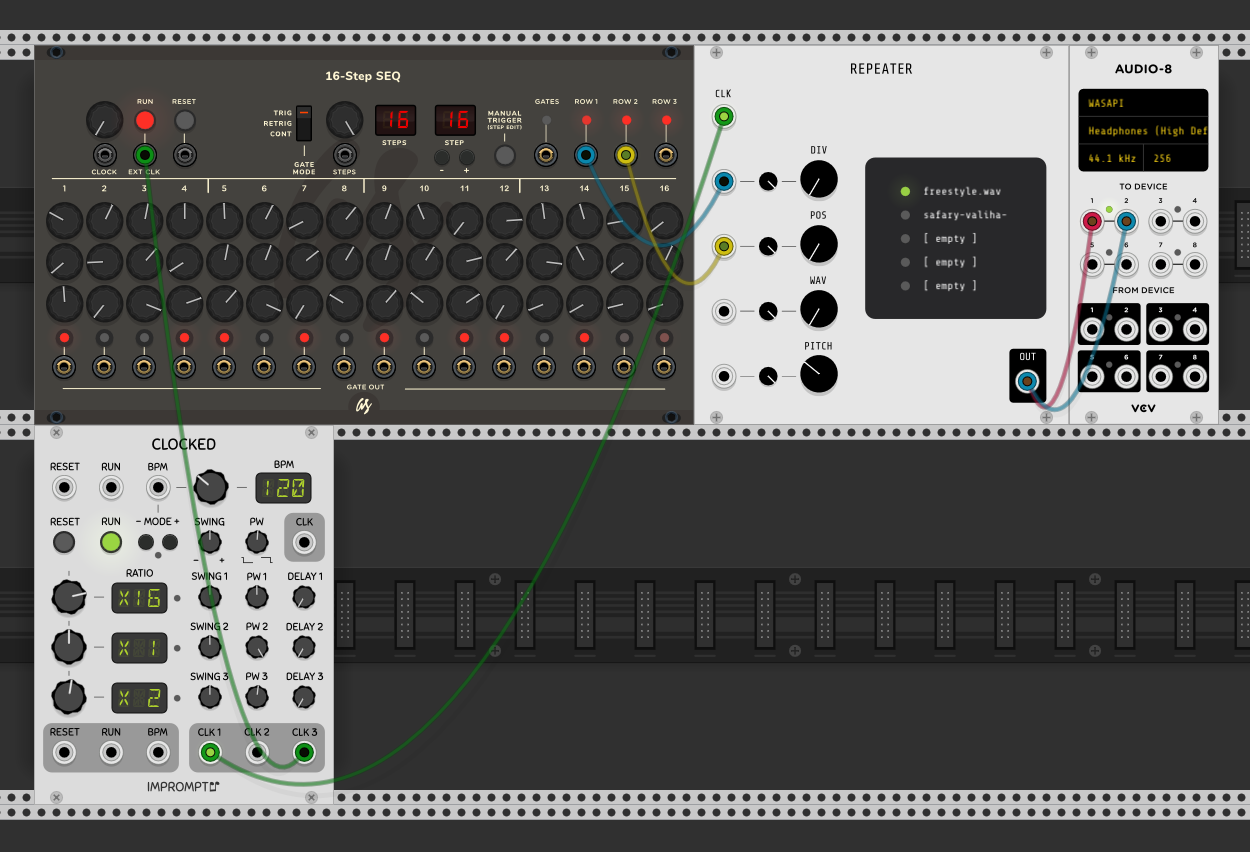
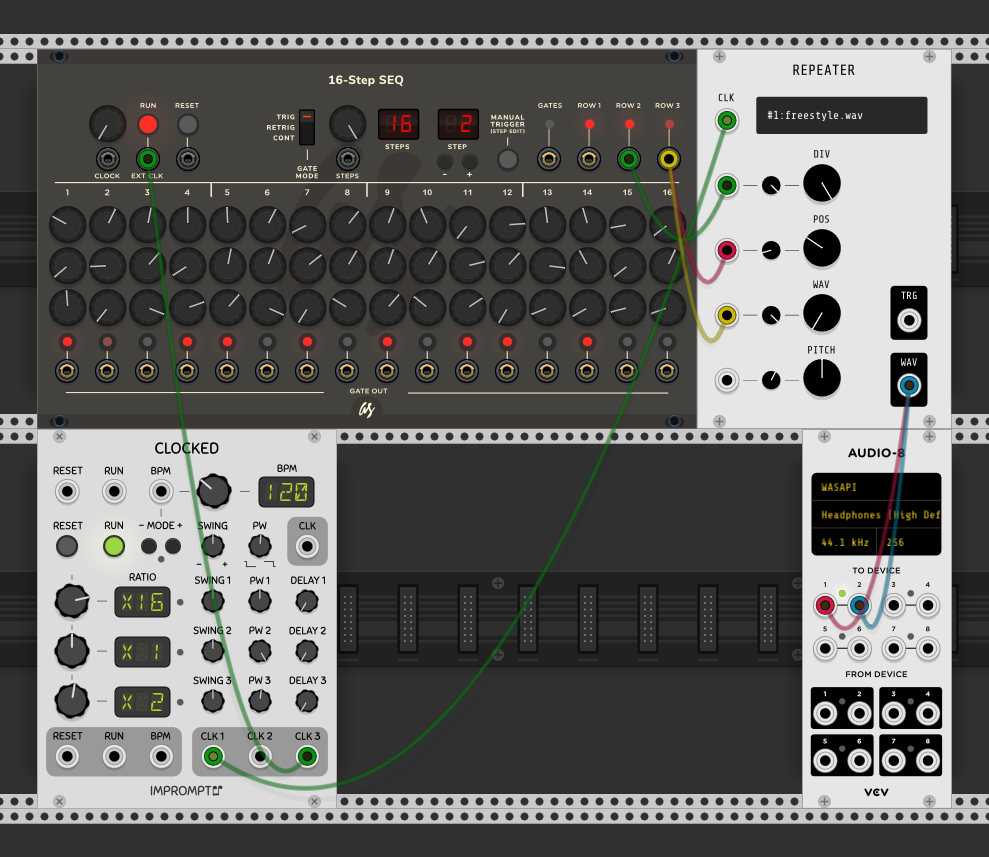
Added CV input control over pitch.  Made the entire module smaller and changed how the sample filename is displayed.  Fixed issue where sounds wouldn't play while samples were loading.  Added new trigger output, but it's not yet funcationl.

diff --git a/src/repeater.cpp b/src/repeater.cpp
@@ -25,6 +25,7 @@ struct sample
 	vector<float> playBuffer;
 	unsigned int sample_rate;
 	unsigned int channels;
+	bool run = false;
 
 	sample()
 	{
@@ -76,9 +77,9 @@ struct sample
 	};
 };
 
+
 struct Repeater : Module
 {
-	bool run = false;
 	unsigned int selected_sample_slot = 0;
 	bool led_states[NUMBER_OF_SAMPLES];
 	float samplePos = 0;
@@ -107,7 +108,8 @@ struct Repeater : Module
 		NUM_INPUTS
 	};
 	enum OutputIds {
-		OUT_OUTPUT,
+		WAV_OUTPUT,
+		TRG_OUTPUT,
 		NUM_OUTPUTS
 	};
 	enum LightIds {
@@ -125,7 +127,7 @@ struct Repeater : Module
 	Repeater()
 	{
 		config(NUM_PARAMS, NUM_INPUTS, NUM_OUTPUTS, NUM_LIGHTS);
-		configParam(PITCH_KNOB, -5.0f, 5.0f, -1.7f, "PitchKnob");
+		configParam(PITCH_KNOB, -1.0f, 1.0f, 0.0f, "PitchKnob");
 		configParam(PITCH_ATTN_KNOB, 0.0f, 1.0f, 1.0f, "PitchAttnKnob");
 		configParam(CLOCK_DIVISION_KNOB, 0.0f, 10.0f, 0.0f, "ClockDivisionKnob");
 		configParam(CLOCK_DIVISION_ATTN_KNOB, 0.0f, 1.0f, 1.0f, "ClockDivisionAttnKnob");
@@ -133,13 +135,6 @@ struct Repeater : Module
 		configParam(POSITION_ATTN_KNOB, 0.0f, 1.0f, 1.0f, "PositionAttnKnob");
 		configParam(SAMPLE_SELECT_KNOB, 0.0f, 1.0f, 0.0f, "SampleSelectKnob");
 		configParam(SAMPLE_SELECT_ATTN_KNOB, 0.0f, 1.0f, 1.0f, "SampleSelectAttnKnob");
-
-		for(int sample_slot = 0; sample_slot < NUMBER_OF_SAMPLES; sample_slot++ )
-		{
-			led_states[sample_slot] = false;
-		}
-
-		led_states[0] = true;
 	}
 
 	json_t *dataToJson() override
@@ -171,20 +166,7 @@ struct Repeater : Module
 
 		if(selected_sample_slot != sample_select_input_value)
 		{
-			for(int i=0; i < NUMBER_OF_SAMPLES; i++)
-			{
-				led_states[i] = false;
-			}
-
 			selected_sample_slot = sample_select_input_value;
-			led_states[selected_sample_slot] = true;
-
-			// TODO: make this based on NUMBER_OF_SAMPLES
-			lights[SAMPLE_SELECT_1_LIGHT].setBrightness(led_states[0] ? 0.9f : 0.f);
-			lights[SAMPLE_SELECT_2_LIGHT].setBrightness(led_states[1] ? 0.9f : 0.f);
-			lights[SAMPLE_SELECT_3_LIGHT].setBrightness(led_states[2] ? 0.9f : 0.f);
-			lights[SAMPLE_SELECT_4_LIGHT].setBrightness(led_states[3] ? 0.9f : 0.f);
-			lights[SAMPLE_SELECT_5_LIGHT].setBrightness(led_states[4] ? 0.9f : 0.f);
 		}
 
 		sample *selected_sample = &samples[selected_sample_slot];
@@ -206,60 +188,73 @@ struct Repeater : Module
 
 				if(step == 0)
 				{
-					run = true;
+					selected_sample->run = true;
 					samplePos = selected_sample->total_sample_count * (((inputs[POSITION_INPUT].getVoltage() / 10.0) * params[POSITION_ATTN_KNOB].getValue()) + params[POSITION_KNOB].getValue());
 				}
 			}
 		}
 
-		if ((! selected_sample->loading) && (run) && (selected_sample->total_sample_count > 0) && ((abs(floor(samplePos)) < selected_sample->total_sample_count)))
+		if ((! selected_sample->loading) && (selected_sample->run) && (selected_sample->total_sample_count > 0) && ((abs(floor(samplePos)) < selected_sample->total_sample_count)))
 		{
 			if (samplePos >= 0)
 			{
-				outputs[OUT_OUTPUT].setVoltage(5 * selected_sample->playBuffer[floor(samplePos)]);
+				outputs[WAV_OUTPUT].setVoltage(5 * selected_sample->playBuffer[floor(samplePos)]);
 			}
 			else
 			{
-				outputs[OUT_OUTPUT].setVoltage(5 * selected_sample->playBuffer[floor(selected_sample->total_sample_count - 1 + samplePos)]);
+				outputs[WAV_OUTPUT].setVoltage(5 * selected_sample->playBuffer[floor(selected_sample->total_sample_count - 1 + samplePos)]);
 			}
-			samplePos = samplePos + 1 + (params[PITCH_KNOB].getValue()) / 3;
+
+			// Increment sample offset (pitch)
+			if (inputs[PITCH_INPUT].isConnected())
+			{
+				samplePos = samplePos + (selected_sample->sample_rate / args.sampleRate) + (((inputs[PITCH_INPUT].getVoltage() / 10.0f) - 0.5f) * params[PITCH_ATTN_KNOB].getValue()) + params[PITCH_KNOB].getValue();
+			}
+			else
+			{
+				samplePos = samplePos + (selected_sample->sample_rate / args.sampleRate) + params[PITCH_KNOB].getValue();
+			}
 		}
 		else
 		{
-			run = false;
-			outputs[OUT_OUTPUT].setVoltage(0);
+			selected_sample->run = false;
+			outputs[WAV_OUTPUT].setVoltage(0);
 		}
 	}
 };
 
-//
-// SampleLabel
-//
-// Defines a transparent widget for showing the labels next to the sample selection LEDs.
-
-struct SampleLabel : TransparentWidget
+struct Readout : TransparentWidget
 {
 	Repeater *module;
 
 	int frame = 0;
-	unsigned int sample_number = 0;
+	// unsigned int sample_number = 0;
 
 	shared_ptr<Font> font;
 
-	SampleLabel()
+	Readout()
 	{
 		font = APP->window->loadFont(asset::plugin(pluginInstance, "res/ShareTechMono-Regular.ttf"));
 	}
 
 	void draw(const DrawArgs &args) override
 	{
-		std::string file_name = module ? module->samples[sample_number].filename : "load sample";
-		std::string to_display = "";
+		std::string to_display;
 
-		// Create a short version of the filename.  Essentially truncates the filename if it is too long.
-		for (int i=0; i<14; i++) to_display = to_display + file_name[i];
+		if(! module)
+		{
+			to_display = "load sample";
+		}
+		else
+		{
+			std::string file_name = module->samples[module->selected_sample_slot].filename;
+			to_display = "#" + std::to_string(module->selected_sample_slot + 1) + ":";
 
-		nvgFontSize(args.vg, 12);
+			// Create a short version of the filename.  Essentially truncates the filename if it is too long.
+			for (int i=0; i<20; i++) to_display = to_display + file_name[i];
+		}
+
+		nvgFontSize(args.vg, 13);
 		nvgFontFaceId(args.vg, font->handle);
 		nvgTextLetterSpacing(args.vg, 0);
 		nvgFillColor(args.vg, nvgRGBA(255, 255, 255, 0xff));
@@ -280,7 +275,6 @@ struct MenuItemLoadSample : MenuItem
 		char *path = osdialog_file(OSDIALOG_OPEN, NULL, NULL, NULL);
 		if (path)
 		{
-			rm->run = false;
 			rm->samples[sample_number].load(path);
 			rm->samplePos = 0;
 			free(path);
@@ -288,23 +282,6 @@ struct MenuItemLoadSample : MenuItem
 	}
 };
 
-//
-// create_label_for_sample
-//
-// This function is simply to avoid a lot of duplicate code when creating the
-// labels for the three samples on the front panel.
-//
-
-SampleLabel* create_label_for_sample(Repeater* module, int sample_number, Vec position)
-{
-	SampleLabel *sample_label = new SampleLabel();
-	sample_label->box.pos = position;  // position of the widget on the panel
-	sample_label->box.size = Vec(110, 30); // bounding box of the widget
-	sample_label->module = module;
-	sample_label->sample_number = sample_number; // sample number starting at 0
-
-	return(sample_label);
-}
 
 struct RepeaterWidget : ModuleWidget
 {
@@ -322,7 +299,7 @@ struct RepeaterWidget : ModuleWidget
 		// Input and label for the sample speed input
 		// addParam(createParam<Trimpot>(Vec(30, 339), module, Repeater::LSPEED_PARAM));
 
-		// Input and label for the trigger input
+		// Input and label for the trigger input (which is labeled "CLK" on the front panel)
 		float trigger_input_x = 6.0;
 		float trigger_input_y = 20.0;
 		addInput(createInput<PJ301MPort>(mm2px(Vec(trigger_input_x, trigger_input_y)), module, Repeater::TRIG_INPUT));
@@ -355,29 +332,14 @@ struct RepeaterWidget : ModuleWidget
 		addParam(createParam<Trimpot>(mm2px(Vec(pitch_x + 16, pitch_y + 1)), module, Repeater::PITCH_ATTN_KNOB));
 		addParam(createParam<RoundLargeBlackKnob>(mm2px(Vec(pitch_x + 30, pitch_y - 3)), module, Repeater::PITCH_KNOB));
 
+		Readout *readout = new Readout();
+		readout->box.pos = mm2px(Vec(22.0, 22.0));
+		readout->box.size = Vec(110, 30); // bounding box of the widget
+		readout->module = module;
+		addChild(readout);
 
-		// Sample select leds
-		float sample_leds_x = 70;
-		float sample_leds_y = 48.0;
-		addChild(createLight<MediumLight<GreenLight>>(mm2px(Vec(sample_leds_x, sample_leds_y)), module, Repeater::SAMPLE_SELECT_1_LIGHT));
-		addChild(createLight<MediumLight<GreenLight>>(mm2px(Vec(sample_leds_x, sample_leds_y + 8)), module, Repeater::SAMPLE_SELECT_2_LIGHT));
-		addChild(createLight<MediumLight<GreenLight>>(mm2px(Vec(sample_leds_x, sample_leds_y + 16)), module, Repeater::SAMPLE_SELECT_3_LIGHT));
-		addChild(createLight<MediumLight<GreenLight>>(mm2px(Vec(sample_leds_x, sample_leds_y + 24)), module, Repeater::SAMPLE_SELECT_4_LIGHT));
-		addChild(createLight<MediumLight<GreenLight>>(mm2px(Vec(sample_leds_x, sample_leds_y + 32)), module, Repeater::SAMPLE_SELECT_5_LIGHT));
-
-		// Add text labels to show the sample filenames next to the three sample selection buttons
-		// These three calls to create_label_for_sample create and return instances of SampleLabel.
-		// Note: create_label_for_sample(Repeater* module, int sample_number, int position_x, int position_y)
-
-		int sample_label_x_offset = 6;
-		int sample_label_y_offset = 1;
-		addChild(create_label_for_sample(module, 0, mm2px(Vec(sample_leds_x + sample_label_x_offset, sample_leds_y + sample_label_y_offset))));
-		addChild(create_label_for_sample(module, 1, mm2px(Vec(sample_leds_x + sample_label_x_offset, sample_leds_y + 8 + sample_label_y_offset))));
-		addChild(create_label_for_sample(module, 2, mm2px(Vec(sample_leds_x + sample_label_x_offset, sample_leds_y + 16 + sample_label_y_offset))));
-		addChild(create_label_for_sample(module, 3, mm2px(Vec(sample_leds_x + sample_label_x_offset, sample_leds_y + 24 + sample_label_y_offset))));
-		addChild(create_label_for_sample(module, 4, mm2px(Vec(sample_leds_x + sample_label_x_offset, sample_leds_y + 32 + sample_label_y_offset))));
-
-		addOutput(createOutput<PJ301MPort>(Vec(321, 324), module, Repeater::OUT_OUTPUT));
+		addOutput(createOutput<PJ301MPort>(Vec(200, 324), module, Repeater::WAV_OUTPUT));
+		addOutput(createOutput<PJ301MPort>(Vec(200, 259), module, Repeater::TRG_OUTPUT));
 	}
 
 	void appendContextMenu(Menu *menu) override

diff --git a/README.md b/README.md
@@ -4,4 +4,28 @@ Modules for VCV Rack.  More info coming soon.
 
 ## Repeater
 
+![Repeater](/docs/images/repeater-front-panel.png)
 ![Repeater](/docs/images/repeater-patch-example.png)
+
+### Inputs
+
+```
+CLK - clock input (very fast clock)
+DIV - clock division. Controls repeat (stutter) length
+POS - sample playback position
+WAV - selects between 5 samples that can be loaded via the context menu
+PITCH - yep, pitch. Can be used to play samples backwards
+```
+
+### Minimal Usage
+
+    Reproduce the patch example that I posted in the image above.
+    Right click on the module to load a .wav sample. I suggest that the sample be around 2 to 5 seconds long.
+    Tweak the POS and DIV knobs!
+
+### Please note the following
+
+1. I do intend to update and customize the front panel design eventually.
+2. I intend to make a companion x/y controller module similar to: https://youtu.be/1pFrvNx5oAc 5
+3. My code is based on Clément Foulc’s PLAY module. A big thank you to him for posting his code. Also, thank you to everyone on these forums for your help!
+4. In order to try with this module, you’ll need to compile it (make install) from my source code. Of course, eventually I hope to submit it to the VCV library. It will be free and open source.
